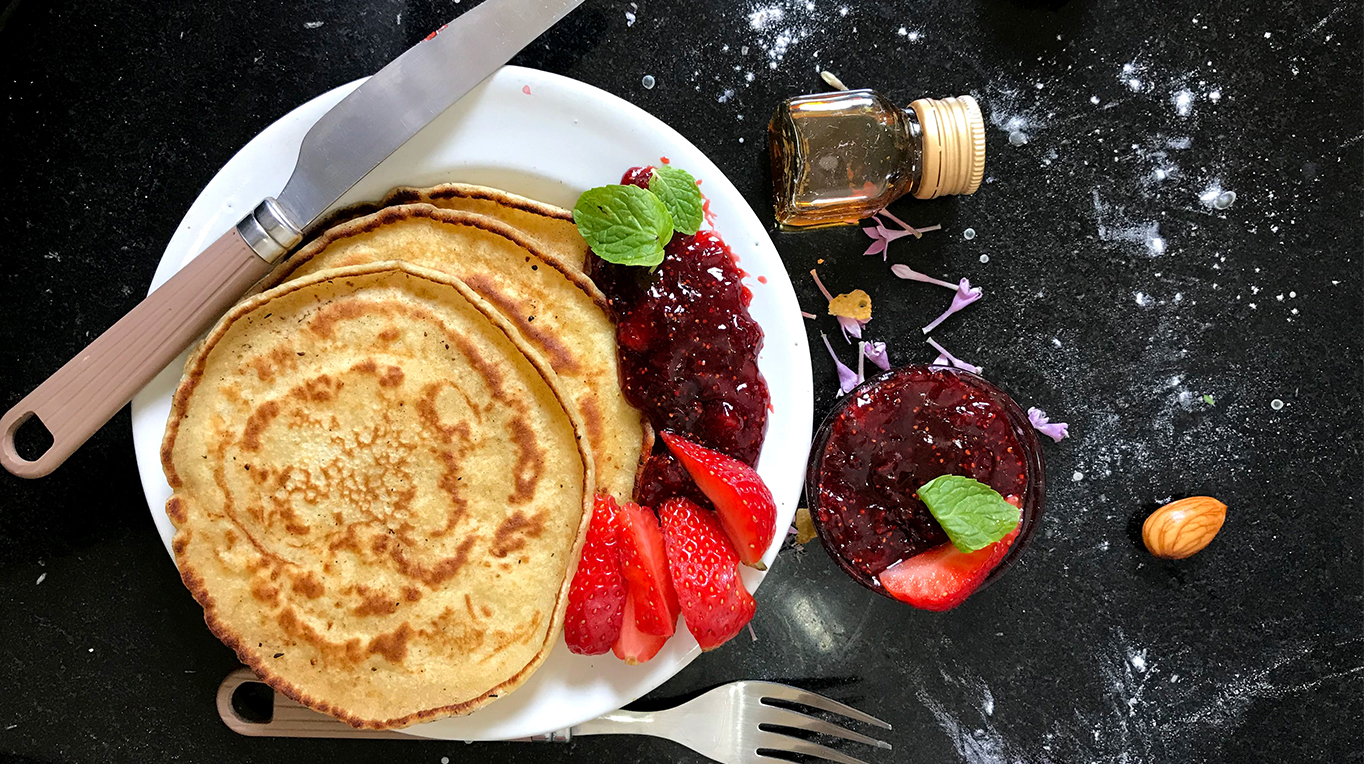
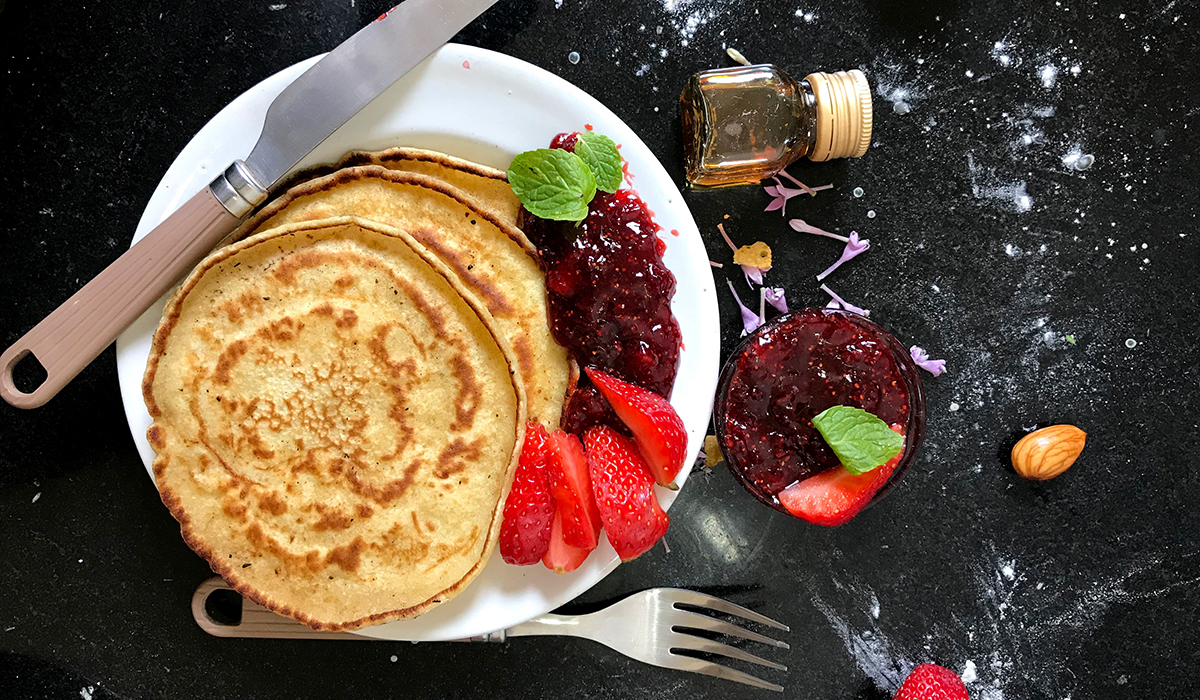
Resized images for carousel

diff --git a/index.html b/index.html
@@ -153,17 +153,20 @@
     </div>
     <div class="container">
         <div class="row text-center">
-            <div class="col">
+            <div class="col justify-content-center">
                 <div id="carouselControls" class="carousel slide" data-ride="carousel">
                     <div class="carousel-inner">
                         <div class="carousel-item active">
                         <img class="d-block w-100" src="assets/images/food-image-01-full.jpg" alt="Pancake with strawberries and jam">
                         </div>
                         <div class="carousel-item">
-                        <img class="d-block w-100" src="assets/images/food-image-01-full.jpg" alt="Second slide">
+                        <img class="d-block w-100" src="assets/images/food-image-02-full.jpg" alt="Second slide">
                         </div>
                         <div class="carousel-item">
-                        <img class="d-block w-100" src="assets/images/food-image-01-full.jpg" alt="Third slide">
+                        <img class="d-block w-100" src="assets/images/food-image-03-full.jpg" alt="Third slide">
+                        </div>
+                        <div class="carousel-item">
+                        <img class="d-block w-100" src="assets/images/food-image-04-full.jpg" alt="Third slide">
                         </div>
                     </div>
                     <a class="carousel-control-prev" href="#carouselControls" role="button" data-slide="prev">

diff --git a/assets/style.css b/assets/style.css
@@ -68,6 +68,7 @@ body {
     min-height: 500px;
 }
 
+
 /*-- Contact Section --*/
 
 .contact-box {
